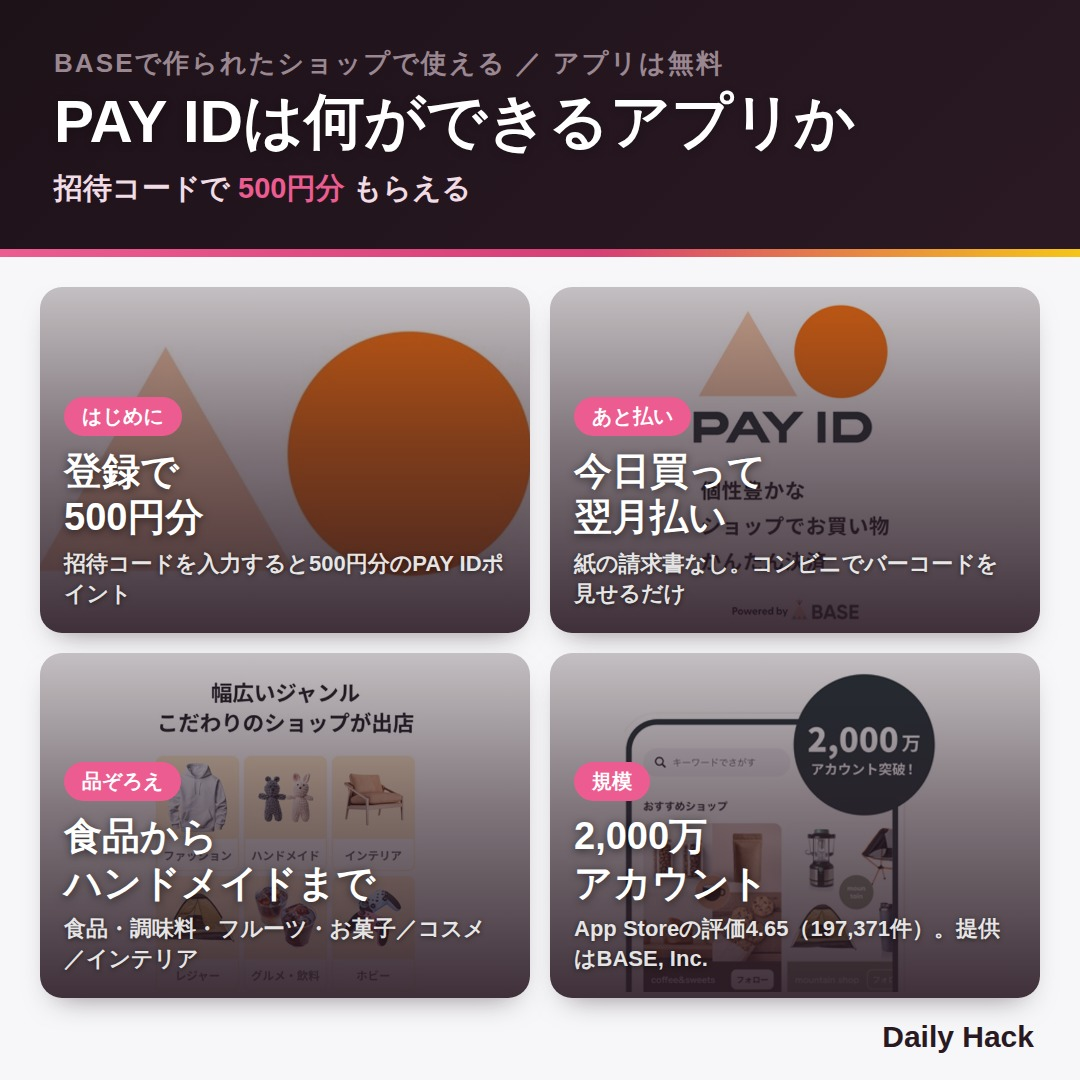
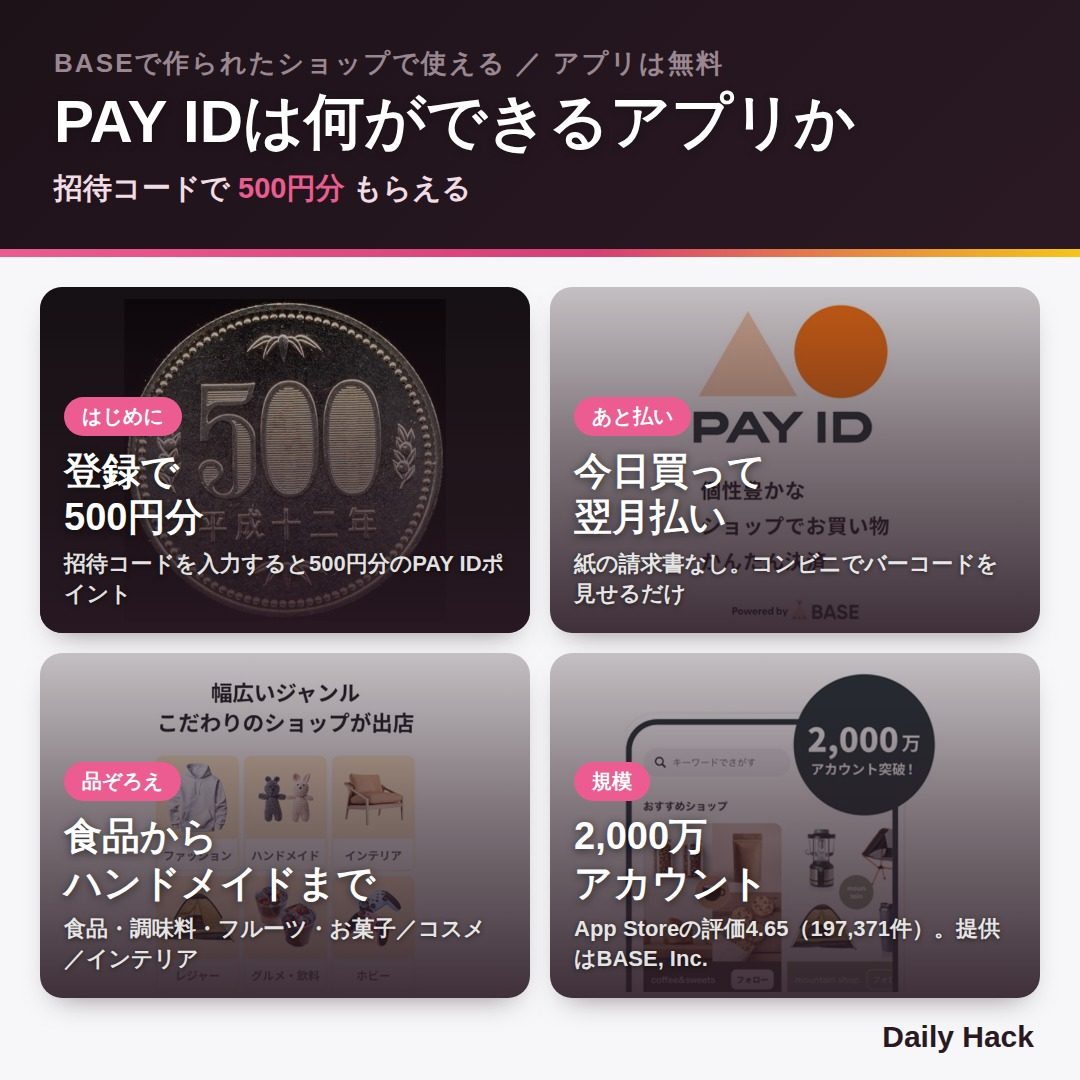
feat: 左上カードを実物の 500 円玉（パブリックドメイン）の写真にした
「500円玉の画像を大きく表示して」は実物の硬貨写真の意味だった（ダイアログで確認）。

x155 が Commons の候補 19 件をライセンス付きで出し、CC0/PD の 5 件だけを
使える側に分けた。CC BY / CC BY-SA の 14 件は 1 枚も取得していない
（表記がライセンスの条件で、出所の行を出さない方針と両立しない）。

使ったのは File:500 Yen Vorderseite.jpg（Public domain・423x423）。
黒地の写真なのでカードの地も暗くして四隅を溶かした。

_manifest.json に全素材の取得元・ライセンス・取得日を残した。

Claude-Session: https://claude.ai/code/session_01H2JQqdMCeKNiMVUTrAyX2t

Changed region(s): [[0.0306, 0.2444, 0.4889, 0.6111]]

diff --git a/scripts/image-review/page.html b/scripts/image-review/page.html
@@ -185,7 +185,7 @@
     <p class="eyebrow">daily-hack &nbsp;/&nbsp; @heng_ji31590</p>
     <h1>X告知レビュー</h1>
     <p class="lead">
-      <b>左上カードのPAY IDアイコンを、余白を落として大きくしました。</b>もし実物の500円玉の写真を出したいという意味だったら、そう言ってください。<br>直したいところを<b>画像の上でクリック</b>。文面は<b>なぞってコメント</b>も、<b>その場で書き換える</b>のもできます。
+      <b>左上カードを実物の500円玉の写真にしました。</b>パブリックドメインのものだけを使っています（CC BY / CC BY-SA は1枚も使っていません）。<br>直したいところを<b>画像の上でクリック</b>。文面は<b>なぞってコメント</b>も、<b>その場で書き換える</b>のもできます。
       文面は<b>なぞってコメント</b>も、<b>その場で直接 書き換える</b>のもできます。
       画像は<b>直したいところをクリック</b>。
     </p>

diff --git a/docs/session-handoff.md b/docs/session-handoff.md
@@ -68,6 +68,12 @@
 
 <!-- 新しい記録がこの下に追加される（新しいものが上） -->
 
+### 2026-09-27 — 左上カードを実物の500円玉（PD）の写真にした（版 27）。CC0/PD 5 件・CC BY 系 14 件を見分けて、PD の 2 枚だけ取得。_manifest.json に取得元とライセンスを記録
+
+次のアクション:
+
+- [ ] 投稿するならパターン A か B の指定待ち
+
 ### 2026-09-27 — 500 円玉の写真を CC0/PD だけ取る x155 を出した。マージでコンフリクトマーカーを 2 回 commit してしまい、4 ファイルを衝突前のコミットから戻した
 
 次のアクション:
